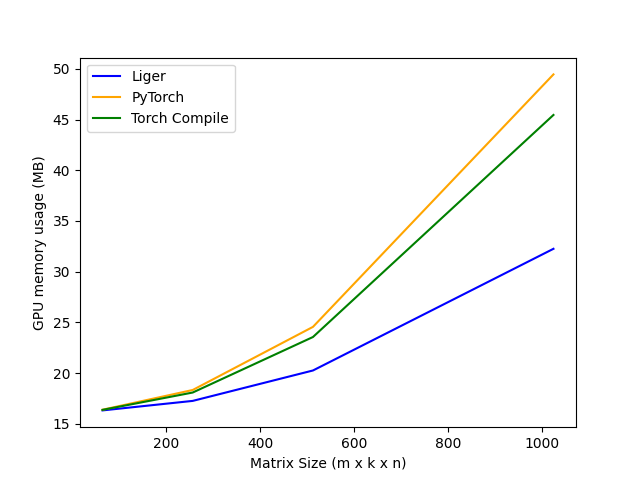
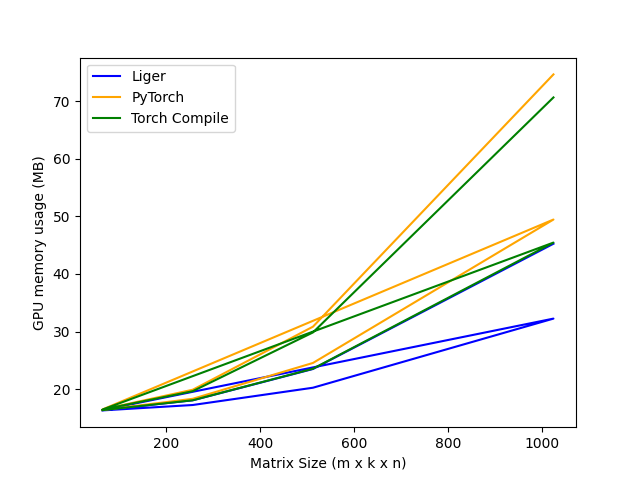
add more benchmarks + diff utils

diff --git a/benchmark/benchmark_gemm_split_k_fp8_e4m3.py b/benchmark/benchmark_gemm_split_k_fp8_e4m3.py
@@ -21,6 +21,10 @@ torch.set_float32_matmul_precision("high")
                 (256, 256, 256),
                 (512, 512, 512),
                 (1024, 1024, 1024),
+                (64, 128, 64),
+                (256, 512, 256),
+                (512, 1024, 512),
+                (1024, 2048, 1024),
             ],
             xlabel="Matrix Size (m x k x n)",
             line_arg="provider",
@@ -38,6 +42,10 @@ torch.set_float32_matmul_precision("high")
                 (256, 256, 256),
                 (512, 512, 512),
                 (1024, 1024, 1024),
+                (64, 128, 64),
+                (256, 512, 256),
+                (512, 1024, 512),
+                (1024, 2048, 1024),
             ],
             xlabel="Matrix Size (m x k x n)",
             line_arg="provider",
@@ -80,13 +88,13 @@ def bench_speed_gemm_split_k_fp8(m, k, n, provider, mode, dtype, device="cuda"):
 
         def full():
             y = fwd_fn()
-            if provider != "liger":
-                torch.sum(y).backward()
-            else:
-                # For Liger, manually compute gradients
+            if provider == "liger":
+                # compute manually gradients for Liger to avoid: "ufunc_add_CUDA" not implemented for 'Float8_e4m3fn'
                 dc = torch.ones_like(y, dtype=torch.float8_e4m3fn)
                 LigerFP8GemmSplitKFunction.apply(dc, b_fp8.t())
                 LigerFP8GemmSplitKFunction.apply(a_fp8.t(), dc)
+            else:
+                torch.sum(y).backward()
 
         ms, min_ms, max_ms = triton.testing.do_bench(full, quantiles=quantiles)
 
@@ -113,6 +121,10 @@ def benchmark_speed_gemm_split_k_fp8_wrapper():
                 (256, 256, 256),
                 (512, 512, 512),
                 (1024, 1024, 1024),
+                (64, 128, 64),
+                (256, 512, 256),
+                (512, 1024, 512),
+                (1024, 2048, 1024),
             ],
             xlabel="Matrix Size (m x k x n)",
             line_arg="provider",
@@ -134,6 +146,7 @@ def bench_memory_gemm_split_k_fp8(m, k, n, provider, dtype, device="cuda"):
 
     def full_liger():
         y = LigerFP8GemmSplitKFunction.apply(a_fp8, b_fp8)
+        # compute manually gradients for Liger to avoid: "ufunc_add_CUDA" not implemented for 'Float8_e4m3fn'
         dc = torch.ones_like(y, dtype=torch.float8_e4m3fn)
         LigerFP8GemmSplitKFunction.apply(dc, b_fp8.t())
         LigerFP8GemmSplitKFunction.apply(a_fp8.t(), dc)

diff --git a/src/liger_kernel/ops/utils.py b/src/liger_kernel/ops/utils.py
@@ -45,7 +45,7 @@ def calculate_settings(n):
 def calculate_gemm_settings(m, n, k):
     total_memory = torch.cuda.get_device_properties(0).total_memory
 
-    if total_memory >= 48 * 1000 * 1000 * 1000:  # >=64 GB VRAM
+    if total_memory >= 48 * 1000 * 1000 * 1000:  # >=48 GB VRAM
         if m * n * k > 1e9:  # large matmul
             return (
                 128,  # block_m
@@ -56,7 +56,7 @@ def calculate_gemm_settings(m, n, k):
                 4,  # split_k
                 16,  # group_m
             )
-        else:  # small-mid matmul
+        elif m * n * k > 1e6:  # mid matmul
             return (
                 128,  # block_m
                 128,  # block_n
@@ -66,7 +66,17 @@ def calculate_gemm_settings(m, n, k):
                 2,  # split_k
                 8,  # group_m
             )
-    else:  # <64 GB VRAM
+        else:  # small matmul
+            return (
+                64,  # block_m
+                64,  # block_n
+                128,  # block_k
+                3,  # num_stages
+                4,  # num_warps
+                1,  # split_k
+                4,  # group_m
+            )
+    else:  # <48 GB VRAM
         if m * n * k > 1e9:  # large matmul
             return (
                 64,  # block_m
@@ -77,7 +87,7 @@ def calculate_gemm_settings(m, n, k):
                 2,  # split_k
                 8,  # group_m
             )
-        else:  # small-mid matmul
+        elif m * n * k > 1e4:  # mid matmul
             return (
                 64,  # block_m
                 64,  # block_n
@@ -86,6 +96,16 @@ def calculate_gemm_settings(m, n, k):
                 4,  # num_warps
                 1,  # split_k
                 4,  # group_m
+            )
+        else:  # small matmul
+            return (
+                64,  # block_m
+                64,  # block_n
+                64,  # block_k
+                3,  # num_stages
+                4,  # num_warps
+                1,  # split_k
+                2,  # group_m
             )
 
 
